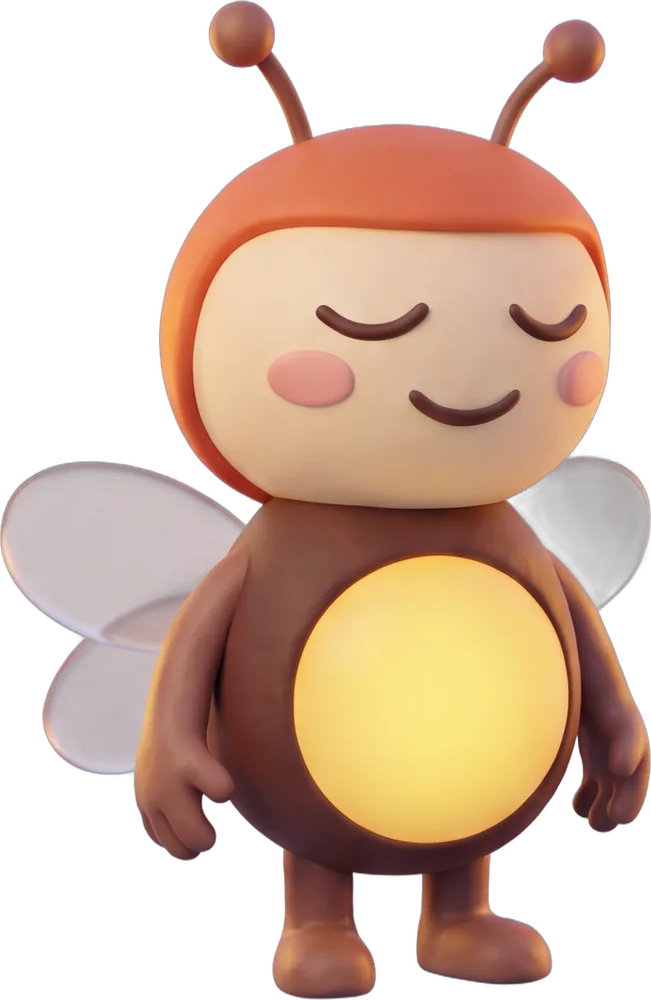
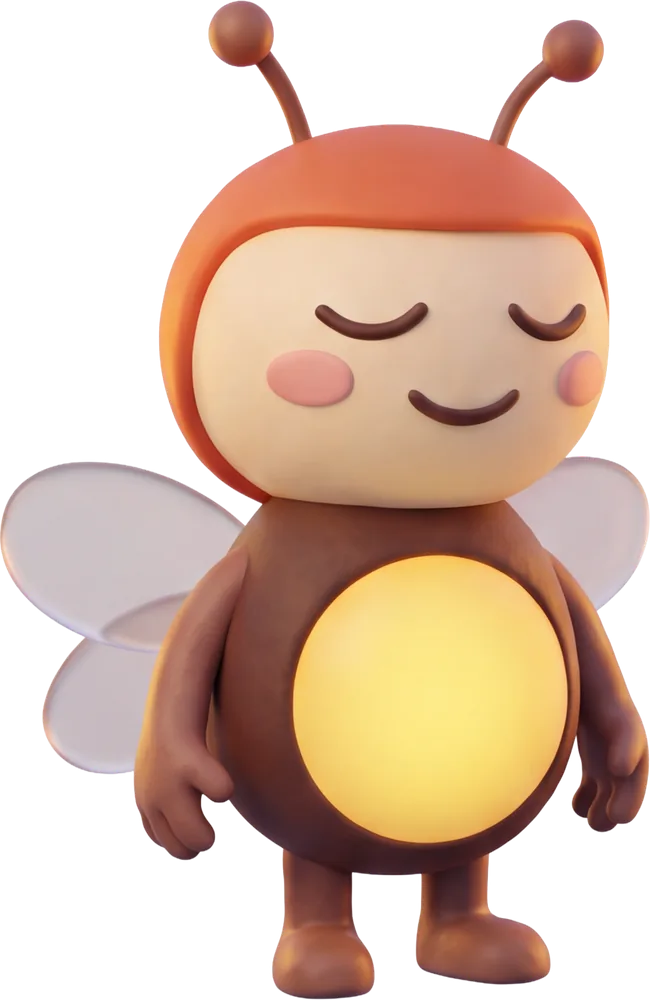
chispa 2.5.2: avatares en 3D y Cocuyo con recorte limpio
- Seis avatares en 3D (figura entera y cara) en la elección, la barra, el casillero y el diploma.
- Cocuyo reemplazado por los recortes hechos a mano, sin bordes sucios.

diff --git a/js/imagenes.js b/js/imagenes.js
@@ -1,2 +1,2 @@
 /* Generado por herramientas/inventario.js: ilustraciones disponibles. */
-self.IMAGENES = ["img/avatares/avatar-audifono.svg","img/avatares/avatar-gafas.svg","img/avatares/avatar-mochila.svg","img/avatares/avatar-silla.svg","img/avatares/avatar-sonrisa.svg","img/avatares/avatar-trenzas.svg","img/cocuyo/cocuyo-celebrando.svg","img/cocuyo/cocuyo-celebrando.webp","img/cocuyo/cocuyo-contento.webp","img/cocuyo/cocuyo-curioso.svg","img/cocuyo/cocuyo-curioso.webp","img/cocuyo/cocuyo-dormido.svg","img/cocuyo/cocuyo-dormido.webp","img/cocuyo/cocuyo-explicando.webp","img/cocuyo/cocuyo-feliz.svg","img/cocuyo/cocuyo-feliz.webp","img/cocuyo/cocuyo-pensando.svg","img/cocuyo/cocuyo-pensando.webp","img/cocuyo/cocuyo-pulgar.webp","img/cocuyo/cocuyo-saludando.svg","img/cocuyo/cocuyo-saludando.webp","img/cocuyo/cocuyo-senalando.svg","img/cocuyo/cocuyo-senalando.webp","img/cocuyo/cocuyo-sorprendido.svg","img/cocuyo/cocuyo-sorprendido.webp","img/fondos/barrio.webp","img/fondos/fondo-arroyo.webp","img/fondos/fondo-casa.webp","img/fondos/fondo-cienaga.webp","img/fondos/fondo-colegio.webp","img/fondos/fondo-cuadra.webp","img/fondos/fondo-parque.webp","img/fondos/fondo-plaza.webp","img/fondos/fondo-techos.webp","img/personajes/personaje-don-abel-cara.webp","img/personajes/personaje-don-abel.svg","img/personajes/personaje-don-abel.webp","img/personajes/personaje-familia-cara.webp","img/personajes/personaje-familia.svg","img/personajes/personaje-familia.webp","img/personajes/personaje-lina-cara.webp","img/personajes/personaje-lina.svg","img/personajes/personaje-lina.webp","img/personajes/personaje-rosa-cara.webp","img/personajes/personaje-rosa.svg","img/personajes/personaje-rosa.webp","img/personajes/personaje-seno-ines-cara.webp","img/personajes/personaje-seno-ines.svg","img/personajes/personaje-seno-ines.webp","img/personajes/personaje-tomas-cara.webp","img/personajes/personaje-tomas.svg","img/personajes/personaje-tomas.webp","img/personajes/personaje-vale-cara.webp","img/personajes/personaje-vale.svg","img/personajes/personaje-vale.webp","img/zonas/arroyo.webp","img/zonas/casa.webp","img/zonas/cienaga.webp","img/zonas/colegio.webp","img/zonas/cuadra.webp","img/zonas/parque.webp","img/zonas/plaza.webp","img/zonas/techos.webp"];
+self.IMAGENES = ["img/avatares/avatar-audifono-cara.webp","img/avatares/avatar-audifono.svg","img/avatares/avatar-audifono.webp","img/avatares/avatar-gafas-cara.webp","img/avatares/avatar-gafas.svg","img/avatares/avatar-gafas.webp","img/avatares/avatar-mochila-cara.webp","img/avatares/avatar-mochila.svg","img/avatares/avatar-mochila.webp","img/avatares/avatar-silla-cara.webp","img/avatares/avatar-silla.svg","img/avatares/avatar-silla.webp","img/avatares/avatar-sonrisa-cara.webp","img/avatares/avatar-sonrisa.svg","img/avatares/avatar-sonrisa.webp","img/avatares/avatar-trenzas-cara.webp","img/avatares/avatar-trenzas.svg","img/avatares/avatar-trenzas.webp","img/cocuyo/cocuyo-celebrando.svg","img/cocuyo/cocuyo-celebrando.webp","img/cocuyo/cocuyo-contento.webp","img/cocuyo/cocuyo-curioso.svg","img/cocuyo/cocuyo-curioso.webp","img/cocuyo/cocuyo-dormido.svg","img/cocuyo/cocuyo-dormido.webp","img/cocuyo/cocuyo-explicando.webp","img/cocuyo/cocuyo-feliz.svg","img/cocuyo/cocuyo-feliz.webp","img/cocuyo/cocuyo-pensando.svg","img/cocuyo/cocuyo-pensando.webp","img/cocuyo/cocuyo-pulgar.webp","img/cocuyo/cocuyo-saludando.svg","img/cocuyo/cocuyo-saludando.webp","img/cocuyo/cocuyo-senalando.svg","img/cocuyo/cocuyo-senalando.webp","img/cocuyo/cocuyo-sorprendido.svg","img/cocuyo/cocuyo-sorprendido.webp","img/fondos/barrio.webp","img/fondos/fondo-arroyo.webp","img/fondos/fondo-casa.webp","img/fondos/fondo-cienaga.webp","img/fondos/fondo-colegio.webp","img/fondos/fondo-cuadra.webp","img/fondos/fondo-parque.webp","img/fondos/fondo-plaza.webp","img/fondos/fondo-techos.webp","img/personajes/personaje-don-abel-cara.webp","img/personajes/personaje-don-abel.svg","img/personajes/personaje-don-abel.webp","img/personajes/personaje-familia-cara.webp","img/personajes/personaje-familia.svg","img/personajes/personaje-familia.webp","img/personajes/personaje-lina-cara.webp","img/personajes/personaje-lina.svg","img/personajes/personaje-lina.webp","img/personajes/personaje-rosa-cara.webp","img/personajes/personaje-rosa.svg","img/personajes/personaje-rosa.webp","img/personajes/personaje-seno-ines-cara.webp","img/personajes/personaje-seno-ines.svg","img/personajes/personaje-seno-ines.webp","img/personajes/personaje-tomas-cara.webp","img/personajes/personaje-tomas.svg","img/personajes/personaje-tomas.webp","img/personajes/personaje-vale-cara.webp","img/personajes/personaje-vale.svg","img/personajes/personaje-vale.webp","img/zonas/arroyo.webp","img/zonas/casa.webp","img/zonas/cienaga.webp","img/zonas/colegio.webp","img/zonas/cuadra.webp","img/zonas/parque.webp","img/zonas/plaza.webp","img/zonas/techos.webp"];

diff --git a/css/chispa.css b/css/chispa.css
@@ -1030,3 +1030,7 @@ html[data-movimiento="menos"] *, html[data-movimiento="menos"] *::before, html[d
 .zona-heroe:has(.vista) .zona-quien[src$=".webp"] { right: 4%; width: auto; height: 118%; bottom: -36%; }
 /* Cocuyo es pequeño: se ve casi entero, a su escala junto a los vecinos. */
 .actor-cuerpo img.actor-fig.cocuyo[src$=".webp"] { height: min(80cqh, 70vw, 340px); margin-bottom: -6cqh; filter: drop-shadow(0 0 18px rgba(255,214,77,.45)) drop-shadow(0 10px 14px rgba(43,33,29,.25)); }
+/* Avatares en 3D: la cara llena su casilla. */
+.avatares button .av-img[src$=".webp"] { left: 6%; top: 12%; width: 88%; height: auto; transform: none; }
+.mi-inventor .av-mini[src$=".webp"] { left: 0; top: 4%; width: 100%; height: 100%; transform: none; object-fit: cover; }
+@media (max-height: 760px) { .avatares button .av-img[src$=".webp"] { left: 13%; top: 4%; width: 74%; } }

diff --git a/js/nucleo.js b/js/nucleo.js
@@ -133,7 +133,8 @@
     // Personajes en 3D (WebP con transparencia) si existen; si no, el dibujo SVG anterior.
     personaje: id => HAY.has(`img/personajes/personaje-${id}.webp`) ? `img/personajes/personaje-${id}.webp` : `img/personajes/personaje-${id}.svg`,
     cara: id => `img/personajes/personaje-${id}-cara.webp`,
-    avatar: id => `img/avatares/avatar-${id}.svg`,
+    // Avatares en 3D: en la app se ven de cabeza y hombros (la figura entera queda en avatar-<id>.webp).
+    avatar: id => HAY.has(`img/avatares/avatar-${id}-cara.webp`) ? `img/avatares/avatar-${id}-cara.webp` : `img/avatares/avatar-${id}.svg`,
     fondo: id => `img/fondos/fondo-${id}.webp`,
     mapa: () => 'img/fondos/barrio.webp',
     zona: id => `img/zonas/${id}.webp`,

diff --git a/sw.js b/sw.js
@@ -1,6 +1,6 @@
 /* chispa · service worker: guarda la app y sus ilustraciones para que abra sin internet. No envía nada a ningún lado. */
 'use strict';
-const VERSION = 'chispa-v2.5.1';
+const VERSION = 'chispa-v2.5.2';
 const VOZ = 'chispa-voz-1';
 importScripts('js/imagenes.js', 'js/audios.js');
 const NUCLEO = ['./', './index.html', './manifest.webmanifest', './css/chispa.css',

diff --git a/README.md b/README.md
@@ -29,7 +29,7 @@ Ningún juego tiene tiempo límite. En el arroyo lo que se mueve se puede pausar
 - **Regla de la interfaz:** lo que se toca tiene borde oscuro y sombra dura (se «aprieta» al tocarlo); lo que solo informa tiene borde suave; lo bloqueado, borde punteado. Un solo botón primario (ámbar) por pantalla.
 - **Inicio (2.4):** el mapa es una ilustración en maqueta isométrica generada con IA (Adobe Firefly) a partir de un prompt con la composición del barrio: glorieta con la estatua de Cocuyo, avenida y calles, y las 8 zonas en dos columnas. Se publica como `img/fondos/barrio.webp` (1400 px); el original queda en `herramientas/fuentes/barrio-maestra.jpg` para sacar más recortes. Cada manzana (`bloque` en `js/datos/base.js`) lleva encima un velo: apagada si está cerrada, tenue si no se ha empezado y a todo color al jugarla. `img/zonas/<zona>.webp` son recortes de la misma ilustración y se usan en la pantalla de cada zona y en el álbum. El mapa dibujado por código de la versión 2.3 quedó en `herramientas/maqueta.py` y `herramientas/fuentes/mapa-maqueta.svg`.
 - **Fondos (2.4.1):** los fondos de las 8 zonas (`img/fondos/fondo-<zona>.webp`) también son ilustraciones generadas con IA en Adobe Firefly, con la imagen del barrio como referencia de estilo: vista a la altura de un niño, la escena arriba y el piso abajo, despejado para las tarjetas. Los fondos anteriores hechos en Figma quedaron en `herramientas/fuentes/fondos-figma/`.
-- **Personajes (2.5):** los 7 personajes son ilustraciones 3D generadas con IA a partir de sus dibujos anteriores, sin fondo (`img/personajes/personaje-<id>.webp`) y con un recorte de cara (`-cara.webp`) para círculos y cromos. `CH.personaje` usa el WebP si existe y si no el SVG; `CH.cara` da la cara. En los episodios el personaje aparece en plano medio: llena el lienzo y sus piernas pasan detrás de la hoja. Cocuyo (2.5.1) también es 3D, con 11 poses en `img/cocuyo/cocuyo-<pose>.webp` (incluye `pulgar`, `explicando` y `contento`), todas mirando al niño; en los episodios se ve casi entero, a su escala. Los avatares siguen en SVG hasta su versión 3D.
+- **Personajes (2.5):** los 7 personajes son ilustraciones 3D generadas con IA a partir de sus dibujos anteriores, sin fondo (`img/personajes/personaje-<id>.webp`) y con un recorte de cara (`-cara.webp`) para círculos y cromos. `CH.personaje` usa el WebP si existe y si no el SVG; `CH.cara` da la cara. En los episodios el personaje aparece en plano medio: llena el lienzo y sus piernas pasan detrás de la hoja. Cocuyo (2.5.1) también es 3D, con 11 poses en `img/cocuyo/cocuyo-<pose>.webp` (incluye `pulgar`, `explicando` y `contento`), todas mirando al niño; en los episodios se ve casi entero, a su escala. Los avatares (2.5.2) también son 3D: figura entera en `img/avatares/avatar-<id>.webp` y cara en `-cara.webp`, que es la que usa la app. Los recortes de Cocuyo y de los avatares los hizo a mano la autora del proyecto; la app solo los separa y escala.
 - **Álbum:** libro con portada, índice de 9 secciones y una página por sección (`#album`, `#album/indice`, `#album/<zona>`).
 - **Reto:** frasco de cocuyos; cada día hecho enciende uno.
 - **Chispas:** la recompensa es una chispa (antes estrella) en toda la app.
